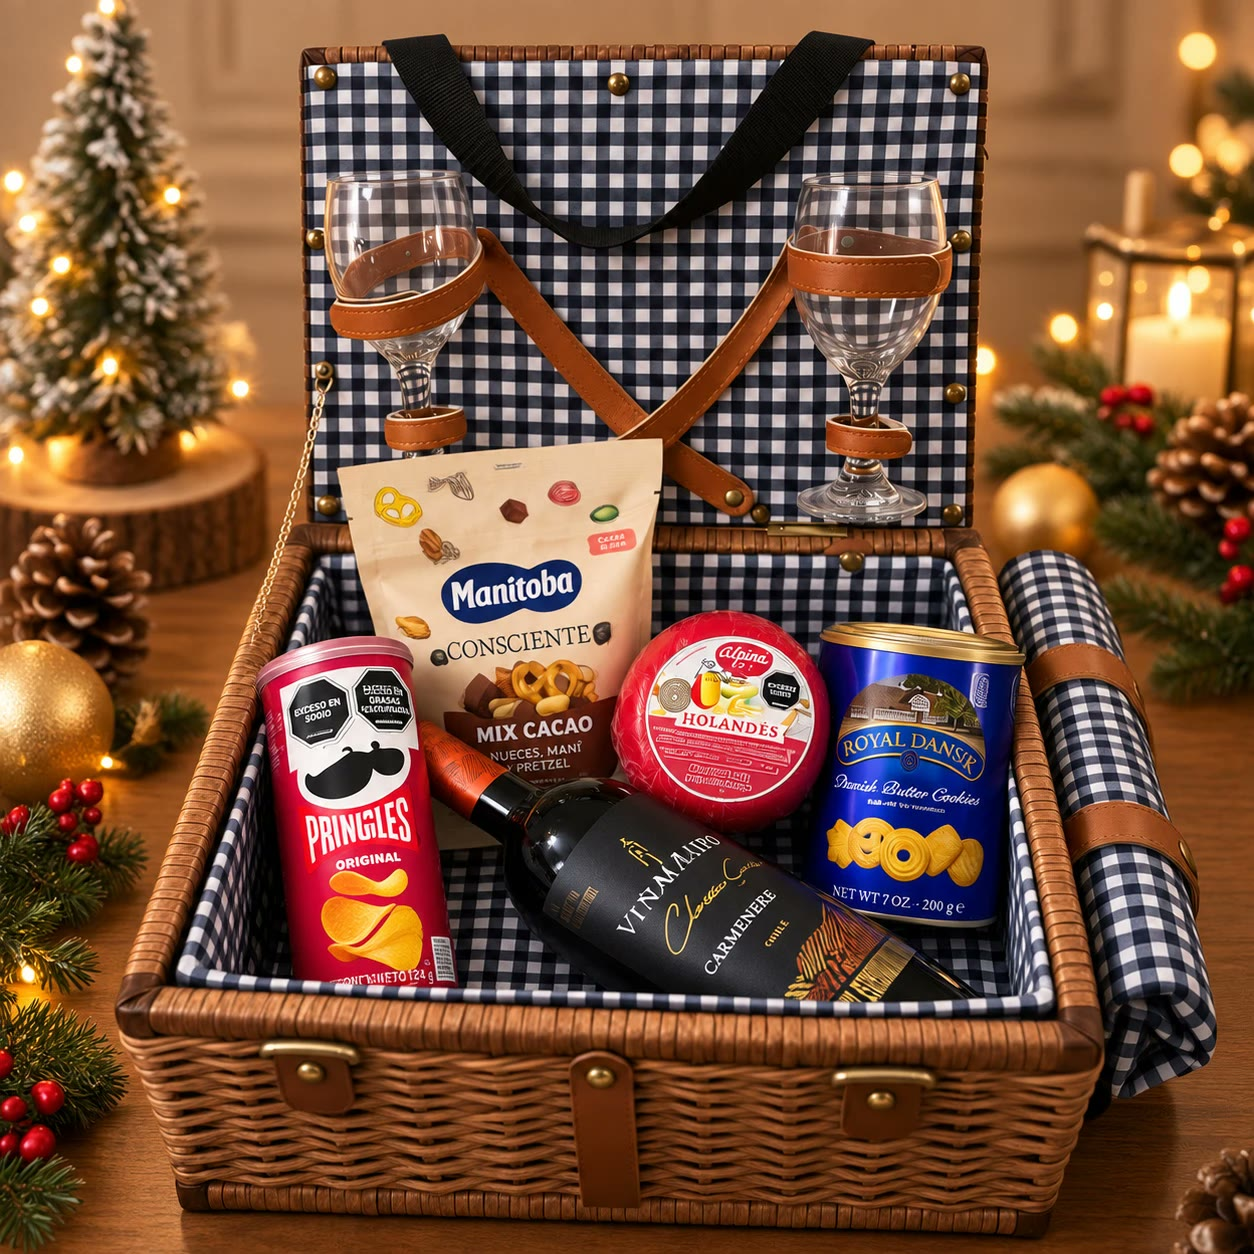
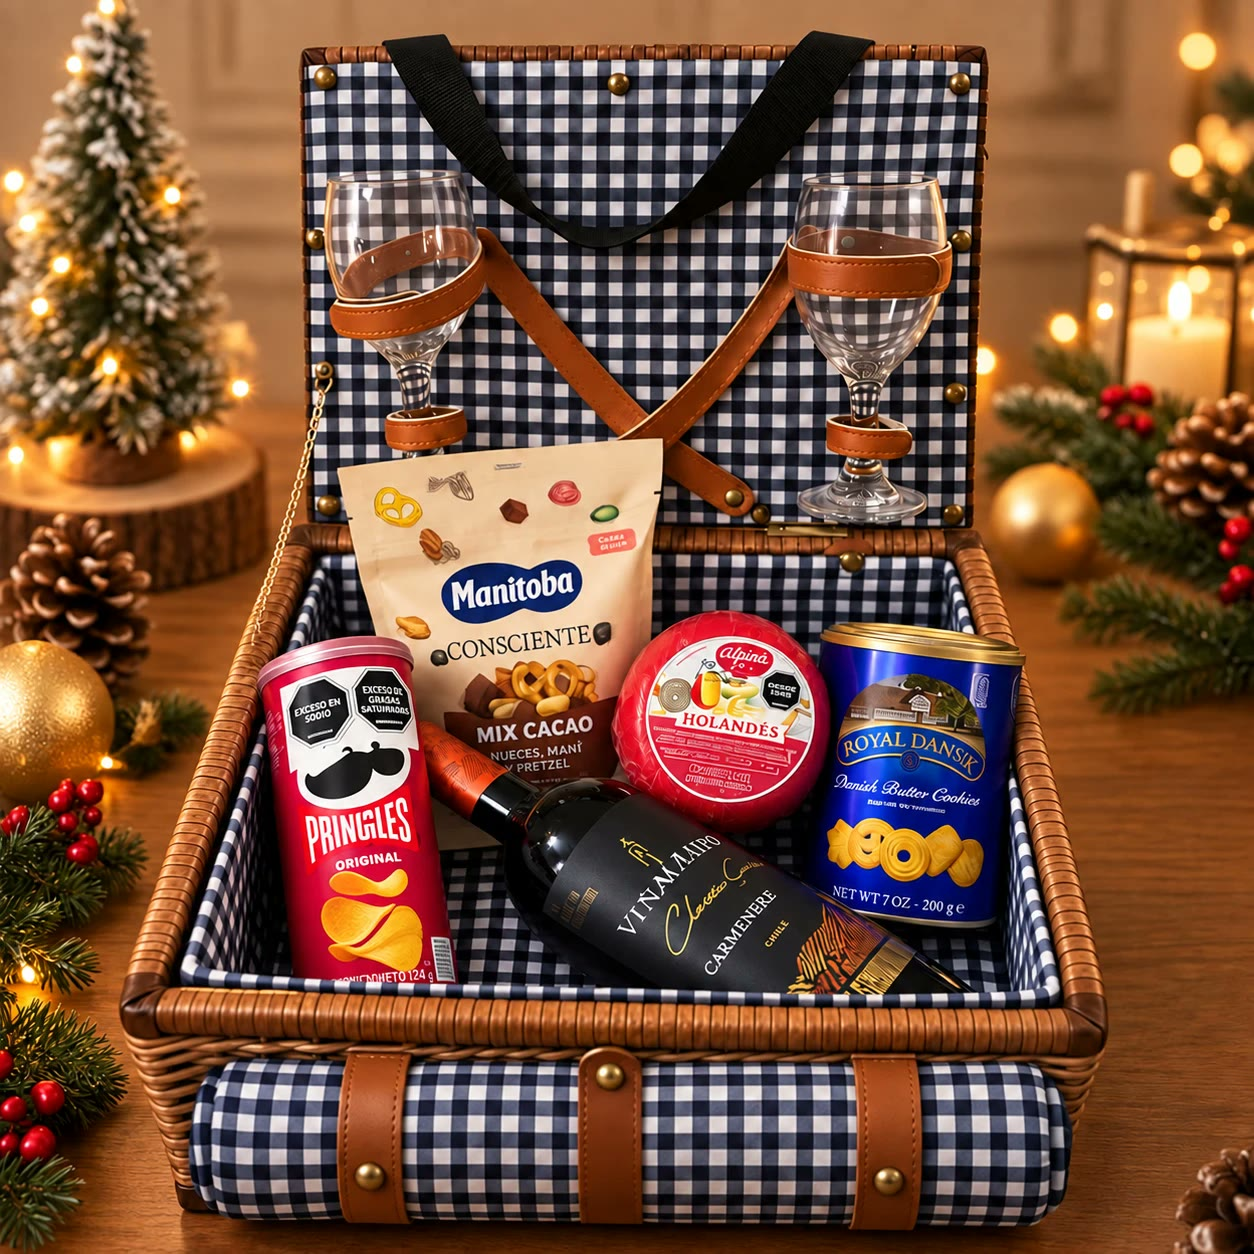
Kits: Picnic Gourmet sin queso y foto nueva, Esencia de Café en grano

diff --git a/assets/js/products.js b/assets/js/products.js
@@ -1086,8 +1086,8 @@ const KITS_ARMADOS = [
     id: "kit-ritual-cafe",
     name: "Kit Esencia de Café",
     code: "KIT-101",
-    description: "Kit para los amantes del café: incluye molino eléctrico, café tostado y molido de origen Quindío con notas a panela y vainilla, y dos vasos de vidrio para disfrutar cada taza. Presentado en elegante caja de regalo.",
-    contents: ["Molino de café eléctrico", "Café Quindío 250 g — Cosecha Especial", "2 vasos de vidrio para café"],
+    description: "Kit para los amantes del café: incluye molino eléctrico, café tostado en grano de origen Quindío, con notas a panela y vainilla, para moler en casa, y dos vasos de vidrio para disfrutar cada taza. Presentado en elegante caja de regalo.",
+    contents: ["Molino de café eléctrico", "Café Quindío en grano 250 g — Cosecha Especial", "2 vasos de vidrio para café"],
     minQty: 10,
     photo: "assets/img/kits/kit-101-ritual-cafe.jpg",
   },
@@ -1131,10 +1131,10 @@ const KITS_ARMADOS = [
     id: "kit-picnic-gourmet",
     name: "Kit Picnic Gourmet",
     code: "KIT-108",
-    description: "Nuestro kit más completo: canasta de picnic en mimbre con dos copas, vino tinto, queso holandés, galletas danesas, mix de frutos secos, papas Pringles y platos.",
-    contents: ["Canasta de picnic con 2 copas y platos", "Vino tinto Viña Maipo Carmenere", "Queso Holandés Alpina", "Galletas Royal Dansk 200 g", "Mix Cacao y Pretzels Manitoba", "Papas Pringles BBQ 71 g"],
+    description: "Nuestro kit más completo: canasta de picnic en mimbre con dos copas, vino tinto, galletas danesas, mix de frutos secos, papas Pringles y platos.",
+    contents: ["Canasta de picnic con 2 copas y platos", "Vino tinto Viña Maipo Carmenere", "Galletas Royal Dansk 200 g", "Mix Cacao y Pretzels Manitoba", "Papas Pringles BBQ 71 g"],
     minQty: 10,
-    photo: "assets/img/kits/kit-108.jpg?v=2",
+    photo: "assets/img/kits/kit-108.jpg?v=3",
   },
   {
     id: "kit-vino-para-dos",

diff --git a/index.html b/index.html
@@ -9,7 +9,7 @@
 <link rel="preconnect" href="https://fonts.googleapis.com">
 <link rel="preconnect" href="https://fonts.gstatic.com" crossorigin>
 <link href="https://fonts.googleapis.com/css2?family=Fraunces:ital,opsz,wght@0,9..144,500;0,9..144,600;0,9..144,700;0,9..144,900;1,9..144,600&family=Playfair+Display:ital,wght@1,600&family=Inter:wght@400;500;600;700;800&display=swap" rel="stylesheet">
-<link rel="stylesheet" href="assets/css/styles.css?v=30">
+<link rel="stylesheet" href="assets/css/styles.css?v=33">
 </head>
 <body class="splash-active">
 
@@ -392,7 +392,7 @@
   </div>
 </template>
 
-<script src="assets/js/products.js?v=30"></script>
-<script src="assets/js/main.js?v=30"></script>
+<script src="assets/js/products.js?v=33"></script>
+<script src="assets/js/main.js?v=33"></script>
 </body>
 </html>
